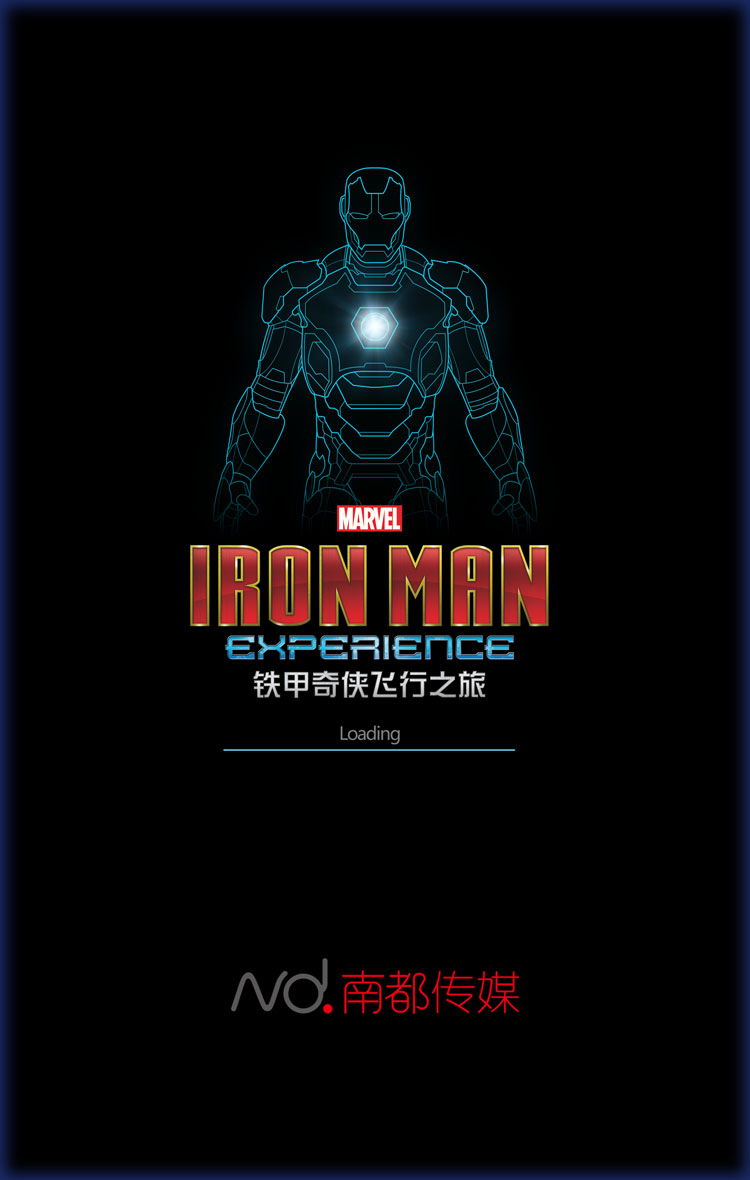
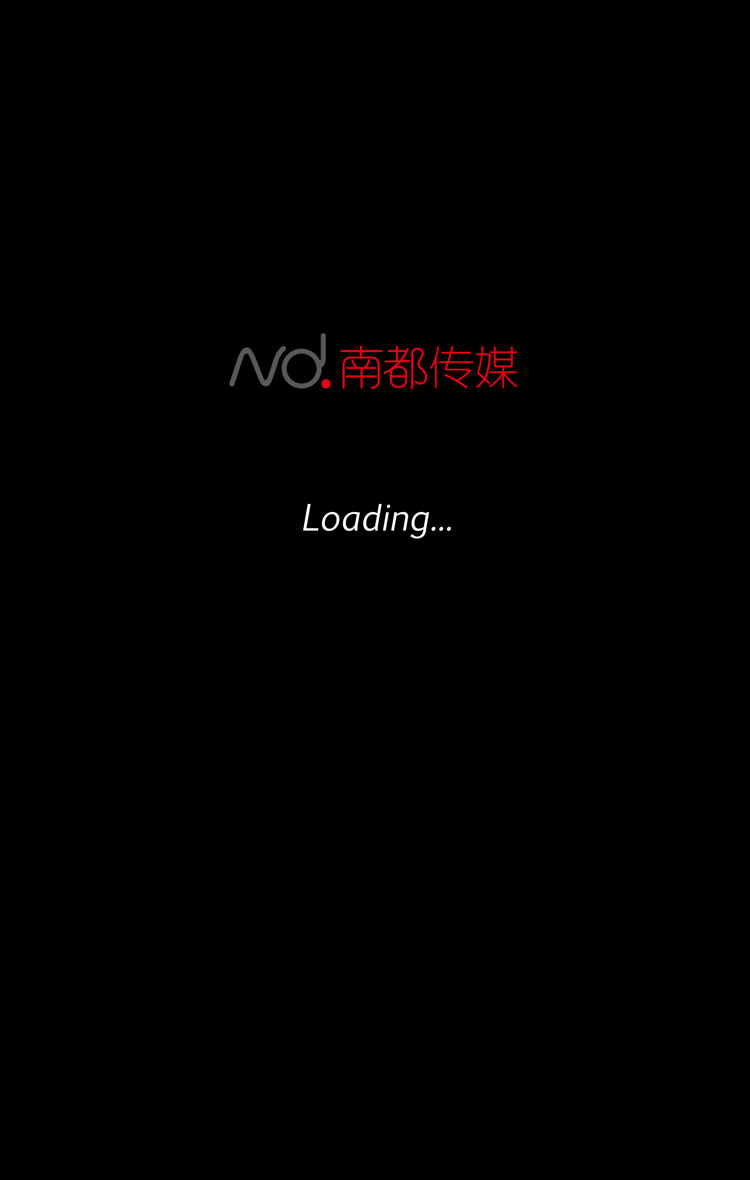
替换图片

Changed region(s): [[0.2453, 0.1525, 0.736, 0.6407], [0.0, 0.0, 1.0, 1.0], [0.3067, 0.8237, 0.7053, 0.8542]]

diff --git a/src/components/loading.vue b/src/components/loading.vue
@@ -1,7 +1,7 @@
 <template>
     <div class="swiper-slide swiper-no-swiping single-page">
         <img class="full-screen" src="../../static/images/loading/loading_bg.jpg" alt="" />
-        <img class="full-screen animated infinite flash" src="../../static/images/loading/flashing.png" alt="" />
+        <!-- <img class="full-screen animated infinite flash" src="../../static/images/loading/flashing.png" alt="" /> -->
         <!-- <video src="videofile.ogg" autoplay poster="posterimage.jpg"> -->
 
         </video>
